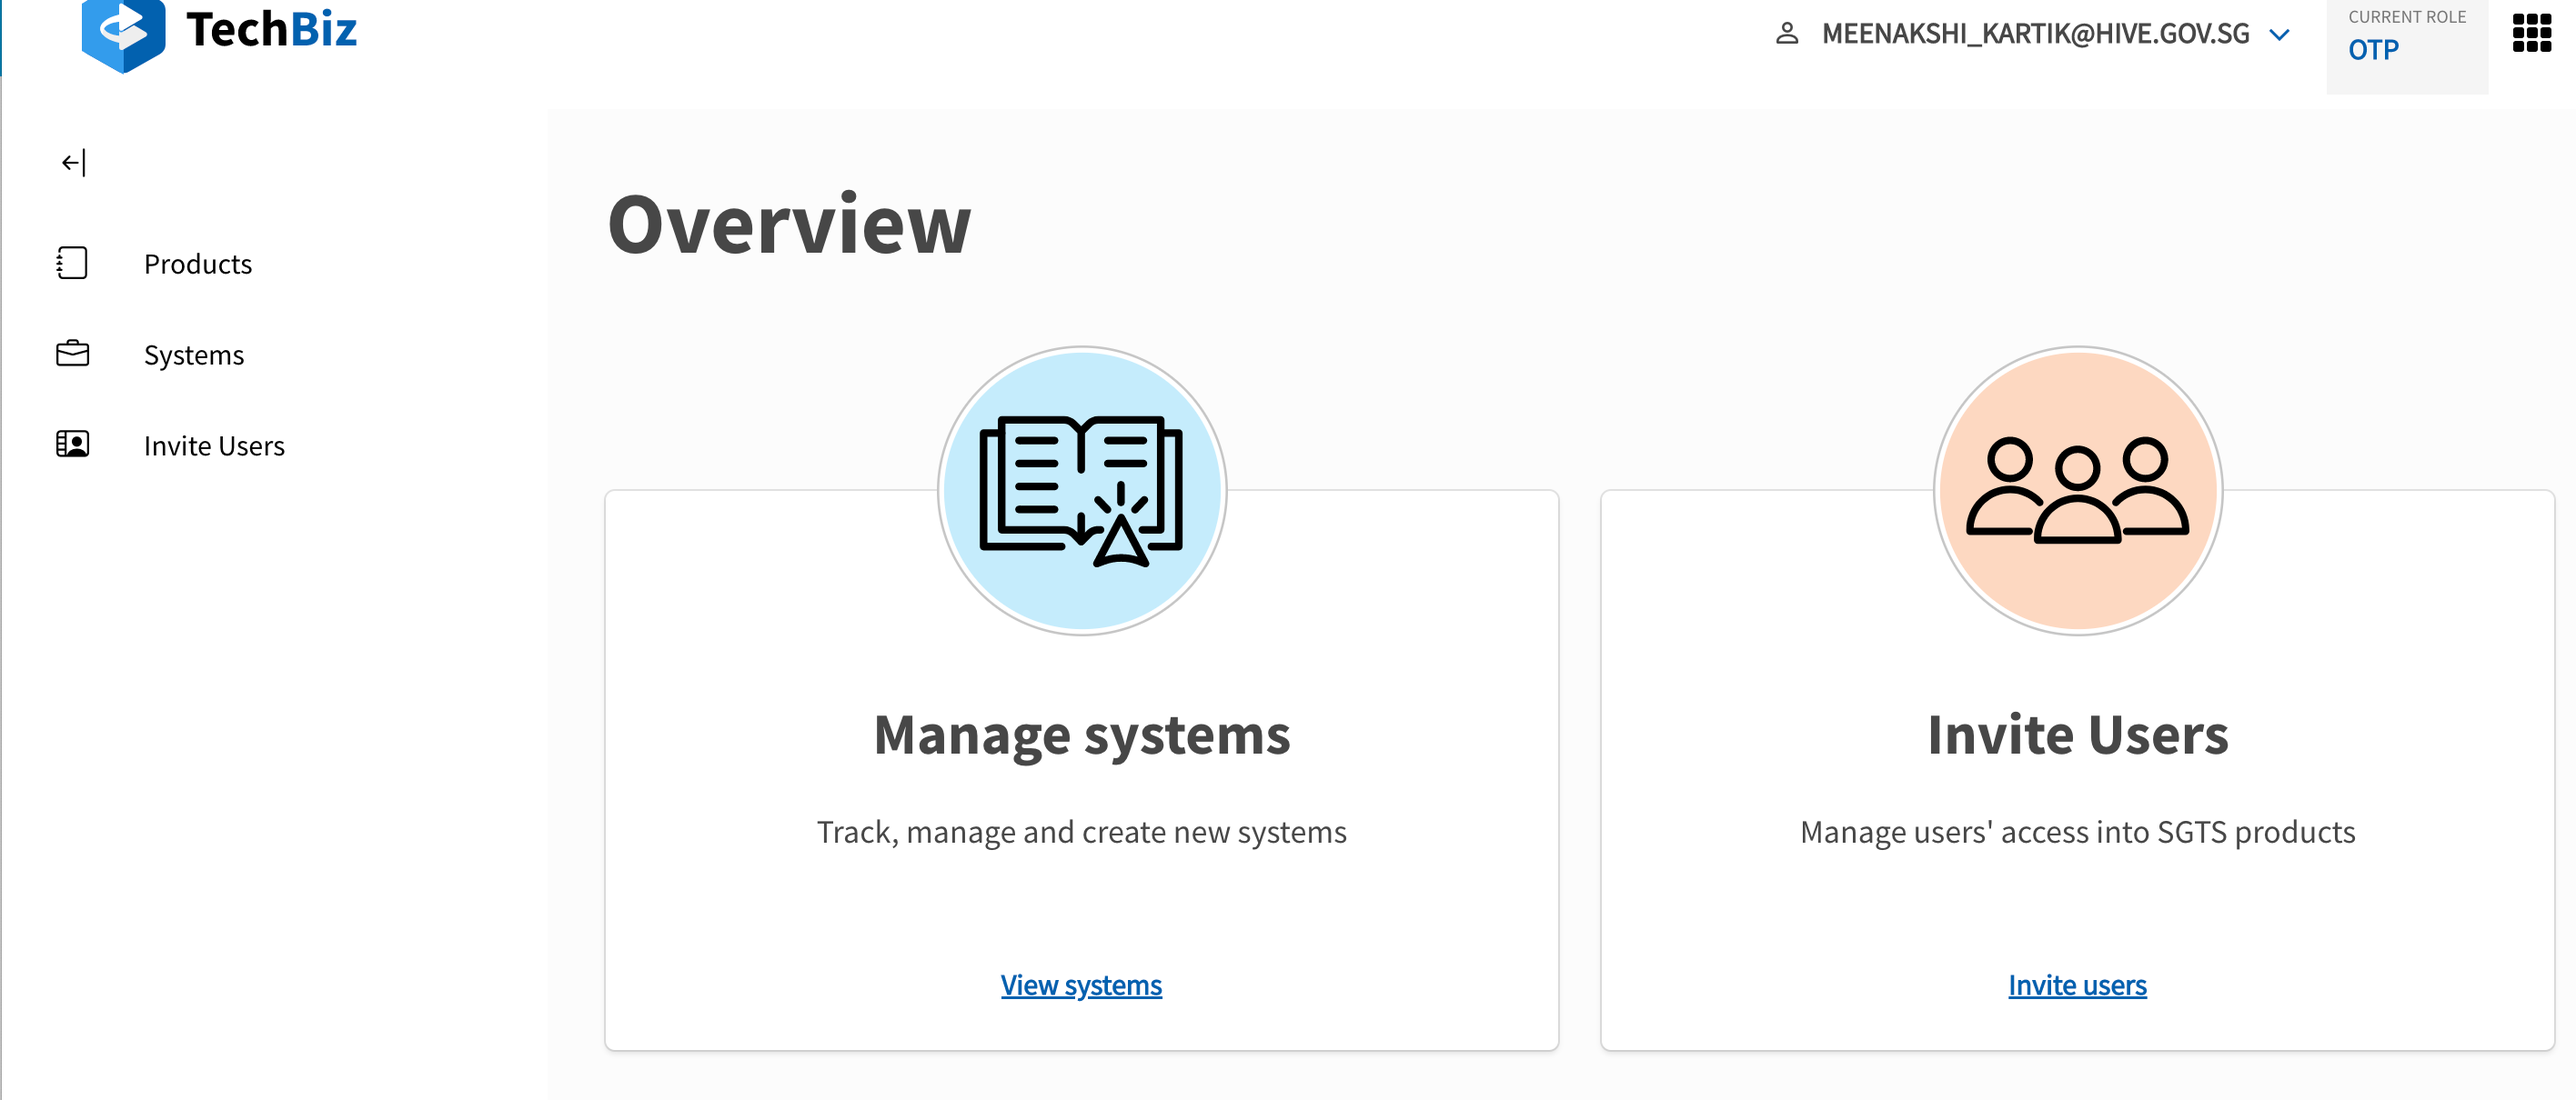
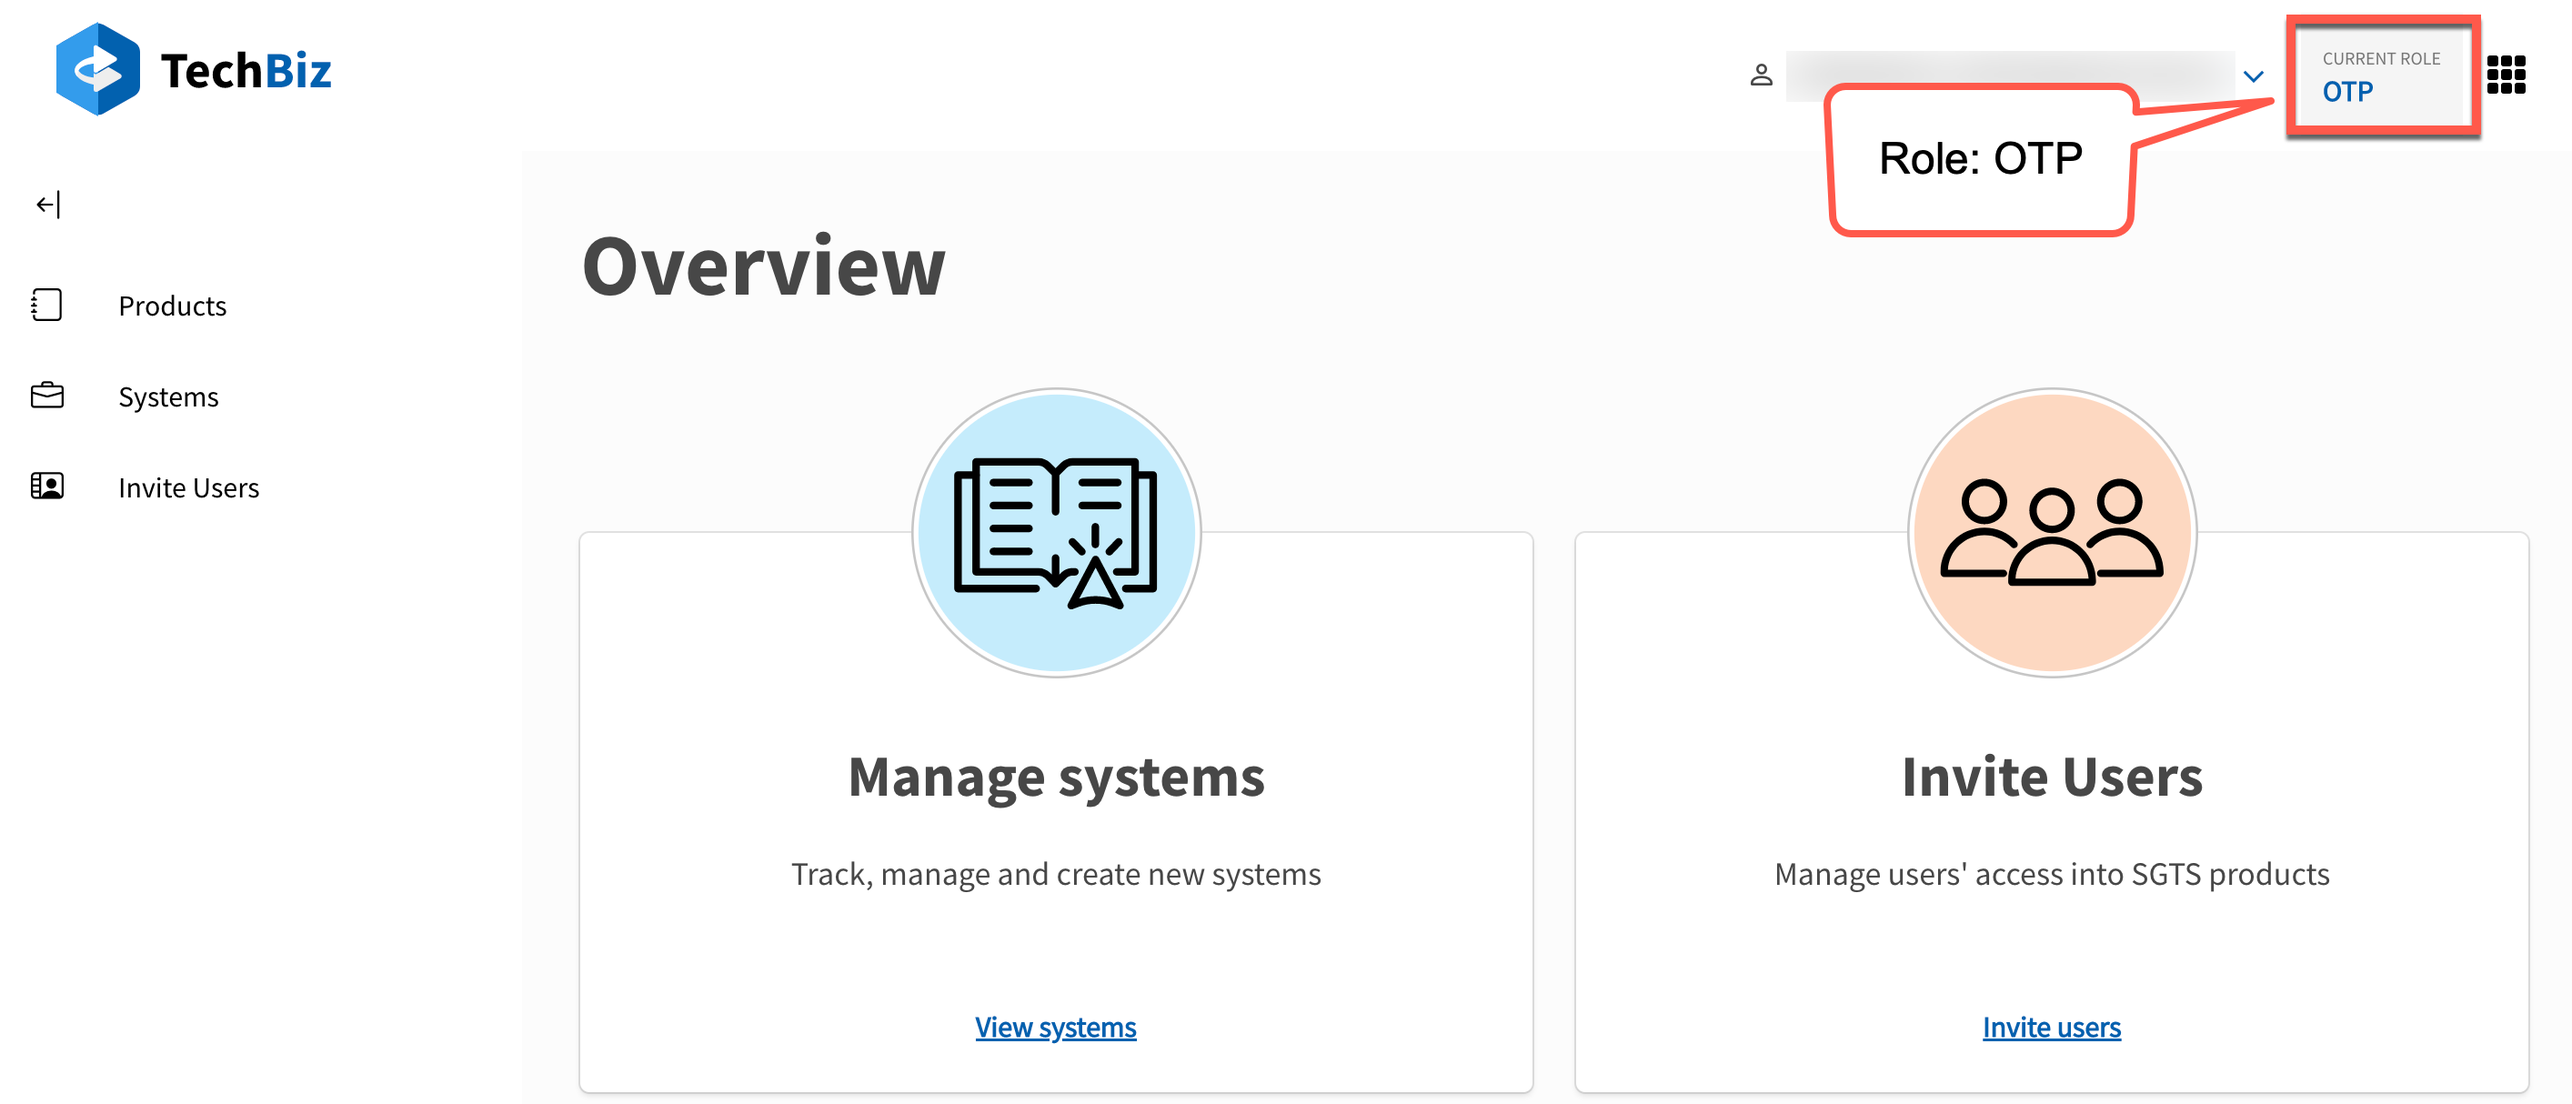
updated images
updated images

diff --git a/log_in_to_TechBiz_portal.md b/log_in_to_TechBiz_portal.md
@@ -4,13 +4,13 @@ You need an active [TechPass](https://www.developer.tech.gov.sg/products/categor
 
 ![Display Landing Page](/images/landing_page.png)
 
-## Log in without TechPass account
+## Log in with TechPass OTP service
 
 1.  Go to the [TechBiz portal.](http://portal.dev.techbiz.suite.gov.sg/)
 
 2.  Click **Get Started.**
 
-3.  Enter your organisation email, and click **Next.**  
+3.  Enter your organisation email, and click **Next.**   
 An OTP is sent to the specified email address.
 
 > **Note:** OTP will be sent to organisational emails only. (For example, user_name@tech.gov.sg)
@@ -28,3 +28,5 @@ An OTP is sent to the specified email address.
 3.  Follow the on-screen instructions and approve sign-in request.
 
 ![Display Overview](/images/TechBiz_overview.png)
+
+> Note: The Overview page displays differently when you log in with TechPass or with TechPass OTP.
